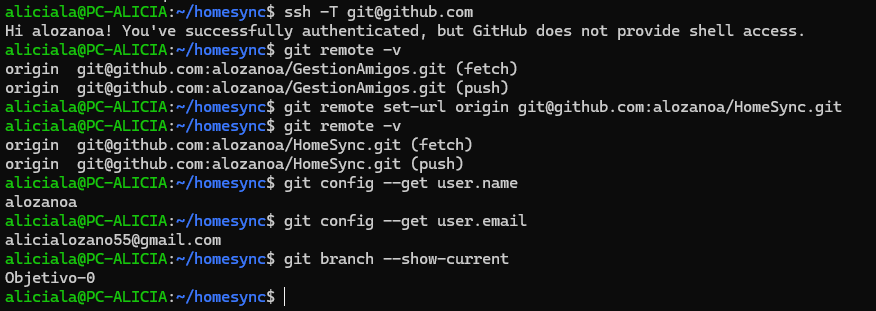
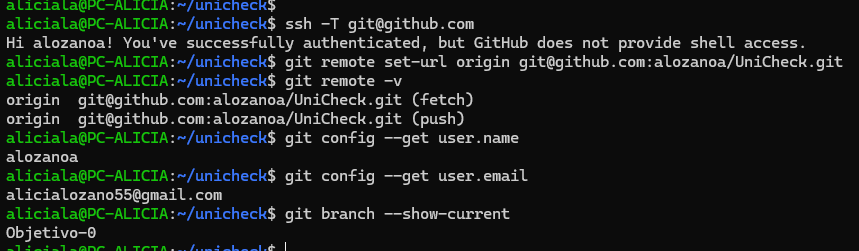
actualización problema

Changed region(s): [[0.0, 0.0, 0.9988, 1.0]]

diff --git a/README.md b/README.md
@@ -1,26 +1,20 @@
-# HomeSync
+# Unicheck
 
 ## Descripción del Problema
 
-Soy una madre con familia numerosa y tengo el siguiente problema, me cuesta organizarme con mi pareja para las tareas de la casa y de la familia en general ya que ambos trabajamos. Varias veces nos hemos olvidado de alguna actividad extracurricular de nuestros hijos o en el último momento nos hemos dado cuenta de que ambos estamos ocupados y no podemos llevar a nuestro hijo a la actividad que tiene. Además, para tema limpieza y de la compra solemos llevar un descontrol de que cosas ha comprado la otra persona o que tareas de limpieza deberíamos realizar.
+Los estudiantes de Bachillerato, sobre todo en el último año, siempre se encuentran con la preocupación de si con las notas que tienen ahora mismo tienen la posibilidad de entrar en la carrera de sus sueños o no, sobre todos aquellos que suelen tener una nota baja. Además cada carrera tiene su ponderación dependiendo de la notas por lo que le díficulta saber que deberían sacar para en cada asignatura para poder entrar.
 
-## Funcionamiento previsto
+## Datos necesarios
 
-Para solucionar el problema crearemos una página web donde tendremos tres funcionalidades:
+Los datos necesarios para resolver este problema los obtendremos tando de los usuarios que vayan a consultar, como obteniendolos de páginas web publica.
 
-- Un "calendario" interactivo donde los usuarios podrán añadir las actividades del día, pudiendolas clasificar como "Actividades de hijos" o de mama o de papa.
+## Funcionamiento previsto del problema
 
-- Un sección de tareas a realizar del día, que la web se encargará de asignar las tareas equitativamente entre los padres(usuarios) dependiendo de las horas ocupadas del día. Además por cada "Actividades de hijos" se podrá crear una o dos tarea automaticamente en motivo de llevar a "x" .
-
-- Y una ultima sección para la compra donde ambos podrán añadir productos o quitar productos de la lista.
-
-Todos los datos seran introduccidos por los usuarios ya sea redactado en un txt o por la misma interfaz.
+Nuestro programa necesitará extraer la información de los boletines de nota de los usuarios, además de extraer la información importante de los html donde se encuentra la información de las universidades. También debería analizar y calcular con la información ya obtenida la probabilidad que tiene un usuario de entrar dependiendo de las opciones que haya elegido
 
 ## Juego de Rol
 
 ![Fotografía de la tarjeta de rol cliente](cliente.jpeg)
-
-![Fotografía de la tarjeta de rol desarrollador](desarrollador.jpeg)
 
 ## Configuración 
 
